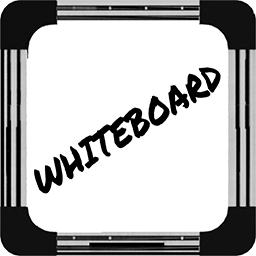
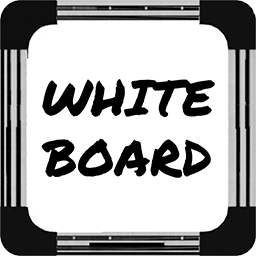
Release v1.3.0
- Updated for Lethal Company v81
- Fixed not being able to crouch.
- Improved the codebase.
- Updated mod icon.

Changed region(s): [[0.125, 0.25, 0.875, 0.7812]]

diff --git a/Whiteboard/Thunderstore/CHANGELOG.md b/Whiteboard/Thunderstore/CHANGELOG.md
@@ -1,4 +1,11 @@
-# v1.2.0
+# v1.3.0
+
+- Updated for Lethal Company v81
+- Fixed not being able to crouch.
+- Improved the codebase.
+- Updated mod icon.
+
+## v1.2.0
 
 - Updated for Lethal Company v73
 